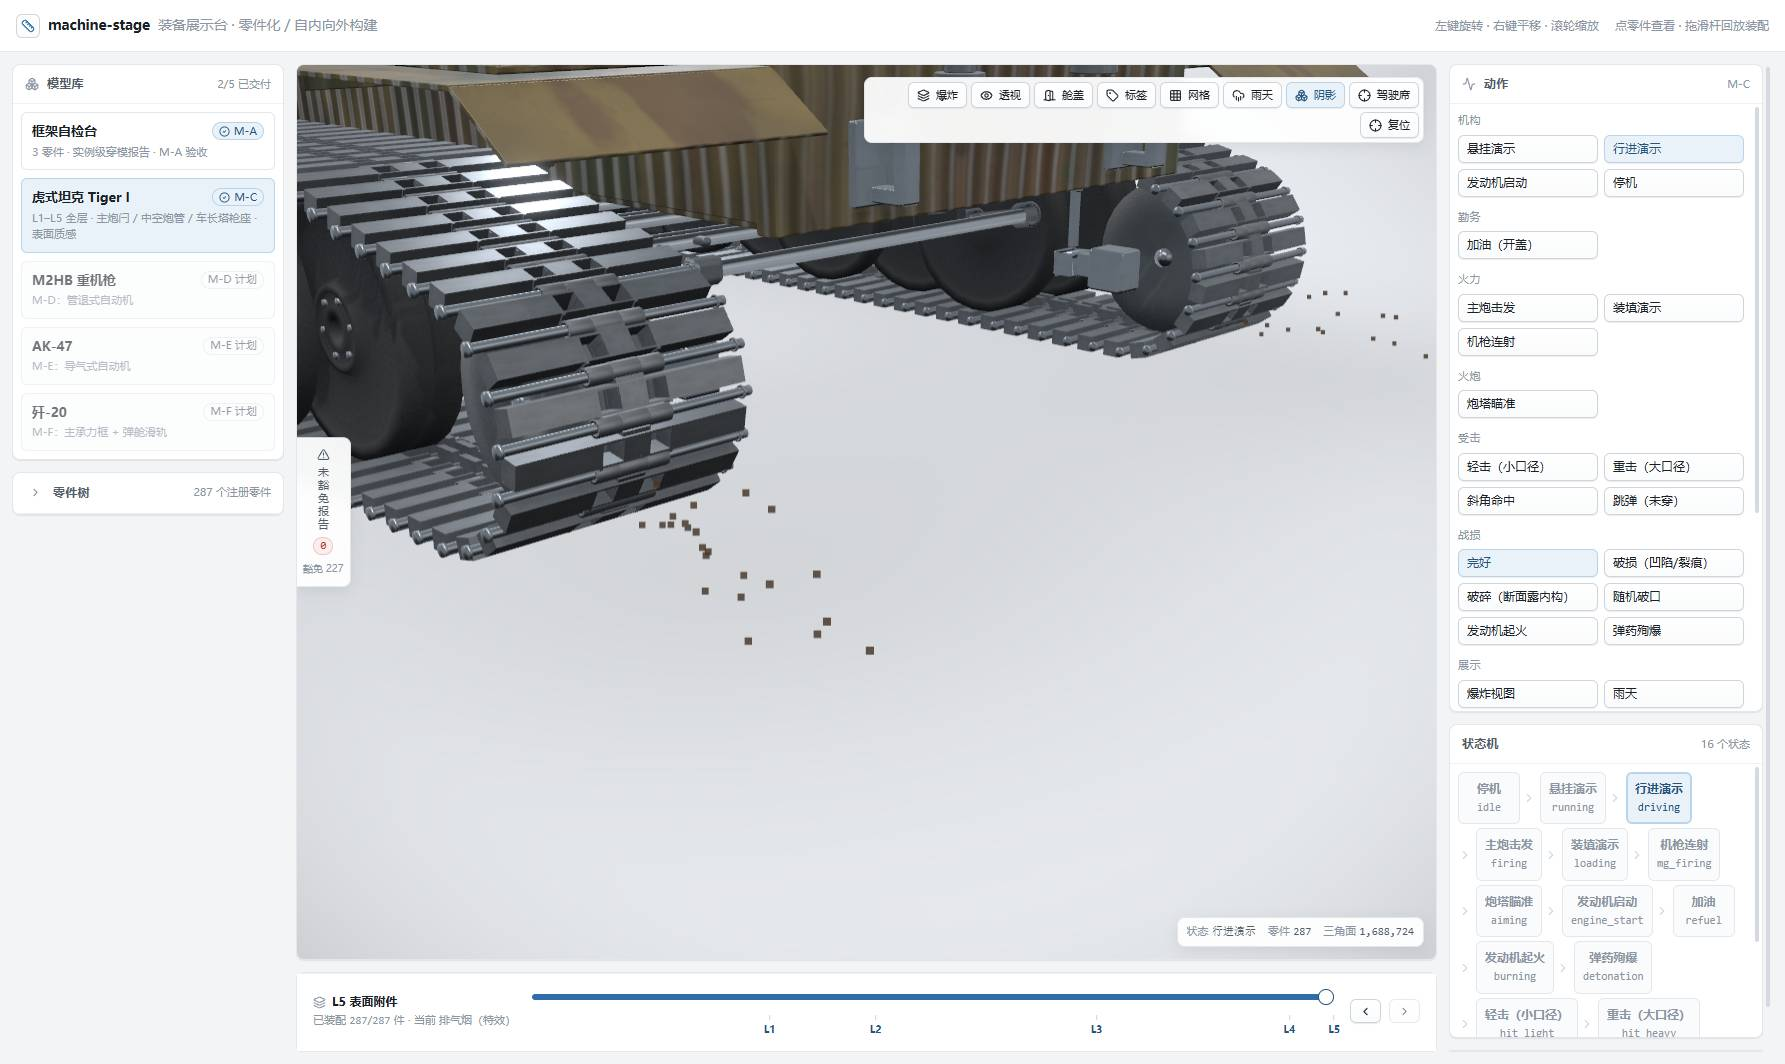
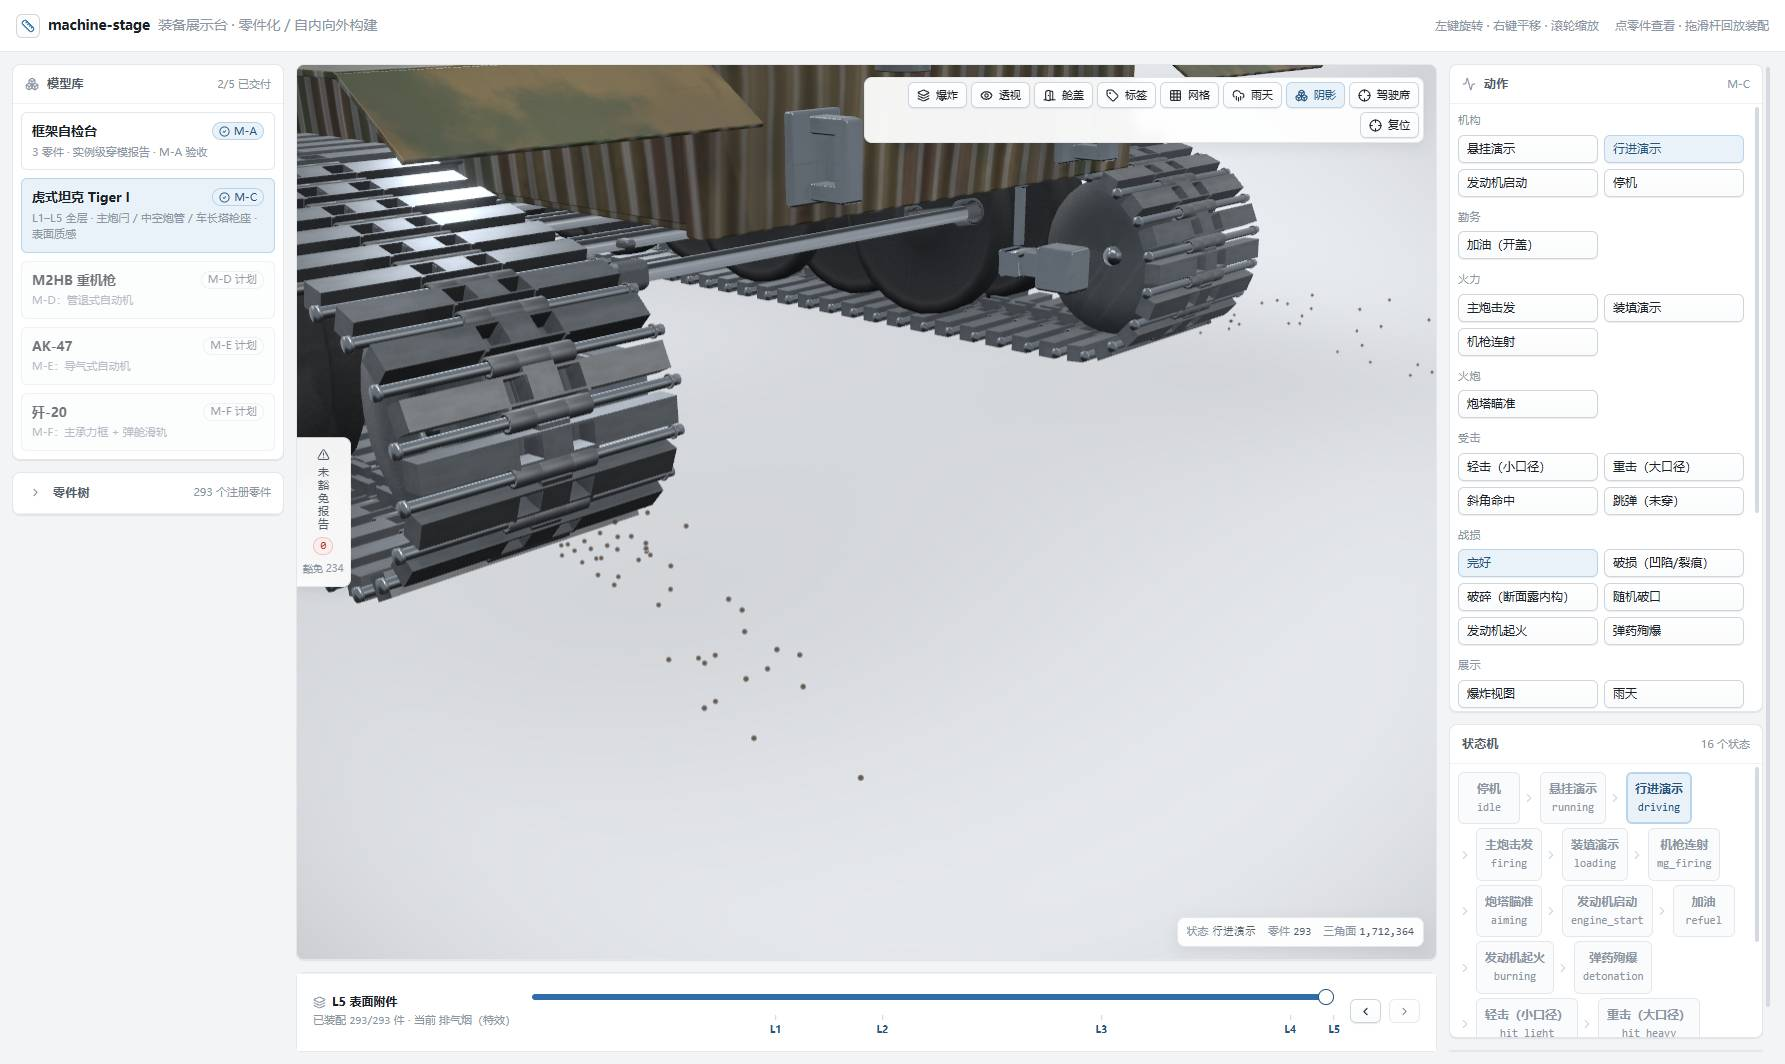
polish(tiger): 雨天装甲湿感（uWet uniform）+ 泥点改圆形精灵
- armourSurface 加全局 uniform uWet：雨天视图下竖直装甲压暗 10%、粗糙度 −0.22（下限 0.28），
  雨水让表面真正变湿而不是只加雨丝；由 StageCanvas 每帧按 views.rain 写入，不影响干态。
- 履带甩泥的 Points 默认是方块，近景露馅：改成代码生成的 32×32 径向渐变 CanvasTexture
  + alphaTest，泥点变成软边圆粒。
- 浏览器实测：开雨天无 shader 报错（console 仅 vite/quarks 日志），湿面与雨丝同时可见；
  行进状态泥点圆形、抛物线正常。

门禁：166 tests / tsc / build ✓；234 报告未豁免 0；悬空 0/0；293 件 / 2248 实例。
证据 docs/qa/weather-rain-wet.jpeg、weather-mud.jpeg（已更新）。

Changed region(s): [[0.1541, 0.062, 0.7395, 0.5893], [0.6162, 0.062, 0.7703, 0.093]]

diff --git a/src/app/three/Weather.tsx b/src/app/three/Weather.tsx
@@ -1,4 +1,4 @@
-import { useMemo, useRef } from "react";
+import { useEffect, useMemo, useRef } from "react";
 import { useFrame } from "@react-three/fiber";
 import * as THREE from "three";
 import type { AssembledModel } from "@/three/parts";
@@ -32,6 +32,23 @@ interface MudParticle {
 
 export function Weather({ assembled }: { assembled: AssembledModel | null }) {
   const rainEnabled = useStageStore((state) => state.views.rain);
+
+  // 圆形泥点贴图（32×32 径向渐变）：Points 默认方块，近景会露馅
+  const mudTexture = useMemo(() => {
+    const canvas = document.createElement("canvas");
+    canvas.width = canvas.height = 32;
+    const ctx = canvas.getContext("2d")!;
+    const gradient = ctx.createRadialGradient(16, 16, 2, 16, 16, 15);
+    gradient.addColorStop(0, "rgba(255,255,255,1)");
+    gradient.addColorStop(0.6, "rgba(255,255,255,0.92)");
+    gradient.addColorStop(1, "rgba(255,255,255,0)");
+    ctx.fillStyle = gradient;
+    ctx.fillRect(0, 0, 32, 32);
+    const texture = new THREE.CanvasTexture(canvas);
+    texture.colorSpace = THREE.SRGBColorSpace;
+    return texture;
+  }, []);
+  useEffect(() => () => mudTexture.dispose(), [mudTexture]);
 
   const rain = useMemo(() => {
     const positions = new Float32Array(RAIN_COUNT * 2 * 3);
@@ -148,7 +165,15 @@ export function Weather({ assembled }: { assembled: AssembledModel | null }) {
         <lineBasicMaterial color="#aebccb" transparent opacity={0.5} depthWrite={false} />
       </lineSegments>
       <points ref={mudRef} geometry={mud.geometry} frustumCulled={false}>
-        <pointsMaterial color="#4d3a26" size={0.042} sizeAttenuation transparent opacity={0.95} />
+        <pointsMaterial
+          color="#4d3a26"
+          size={0.05}
+          map={mudTexture}
+          alphaTest={0.3}
+          sizeAttenuation
+          transparent
+          opacity={0.95}
+        />
       </points>
     </group>
   );

diff --git a/src/three/parts/kernel/armourSurface.ts b/src/three/parts/kernel/armourSurface.ts
@@ -21,6 +21,13 @@ export interface ArmourSurfaceOptions {
   grime: boolean;
 }
 
+/** 淋雨湿润度（0=干 / 1=湿）：全局 uniform，雨天视图开关切换。 */
+const wetUniform = { value: 0 };
+
+export function setArmourWet(wet: boolean): void {
+  wetUniform.value = wet ? 1 : 0;
+}
+
 const VERTEX_HEAD = /* glsl */ `
 varying vec3 vArmourWorld;
 varying vec3 vArmourNormal;
@@ -40,6 +47,7 @@ const VERTEX_BODY = /* glsl */ `
 `;
 
 const FRAGMENT_HEAD = /* glsl */ `
+uniform float uWet;
 varying vec3 vArmourWorld;
 varying vec3 vArmourNormal;
 float armourHash(vec3 p) {
@@ -69,6 +77,7 @@ export function applyArmourSurface(
 ): void {
   const { zimmerit, camo, grime } = options;
   material.onBeforeCompile = (shader) => {
+    shader.uniforms.uWet = wetUniform;
     shader.vertexShader = shader.vertexShader
       .replace("#include <common>", `#include <common>\n${VERTEX_HEAD}`)
       .replace("#include <begin_vertex>", `#include <begin_vertex>\n${VERTEX_BODY}`);
@@ -121,6 +130,8 @@ export function applyArmourSurface(
         /* glsl */ `#include <color_fragment>
         {
           ${verticalMask}
+          // 淋雨：竖直面压暗 10%，低洼处更深（雨水聚在凹处）
+          diffuseColor.rgb *= mix(1.0, 0.90, uWet * armourVertical);
           ${
             zimmerit
               ? `// 防磁棱的高度场同时压暗谷底，让凹凸在平光下也可读
@@ -205,6 +216,7 @@ export function applyArmourSurface(
           0.40,
           1.0
         );
+        roughnessFactor = mix(roughnessFactor, max(0.28, roughnessFactor - 0.22), uWet);
       }`,
     );
 

diff --git a/src/app/three/StageCanvas.tsx b/src/app/three/StageCanvas.tsx
@@ -14,6 +14,7 @@ import { findModel, type StageModel } from "../catalog";
 import { faultFromError, useStageStore } from "../state/stageStore";
 import { applyDamage, applyDetach, applyExplode, applyHighlight, applyXray, clearPose } from "./pose";
 import { Weather } from "./Weather";
+import { setArmourWet } from "@/three/parts/kernel/armourSurface";
 import { TigerVfx } from "./vfx/TigerVfx";
 import { applyTigerLidPose, effectiveLidOpen, lidAt } from "@/three/parts/models/tiger/lids";
 import { firstPersonView, type CameraMode } from "./viewpoints";
@@ -272,6 +273,7 @@ function StageRuntime() {
     // 停机时传 0：悬挂回到装配态（否则会停在上一帧的抬起位）
     model.animate?.(assembled, running ? clockRef.current : 0, state);
     // 舱盖/加油口盖是交互件：用真实帧时间平滑开合，不跟机器状态时钟走
+    setArmourWet(store.views.rain);
     if (store.modelId === "tiger") {
       applyTigerLidPose(assembled, state, store.lidOverrides, delta);
       const wiper = store.views.rain ? assembled.getNode("VisorWiper") : null;
